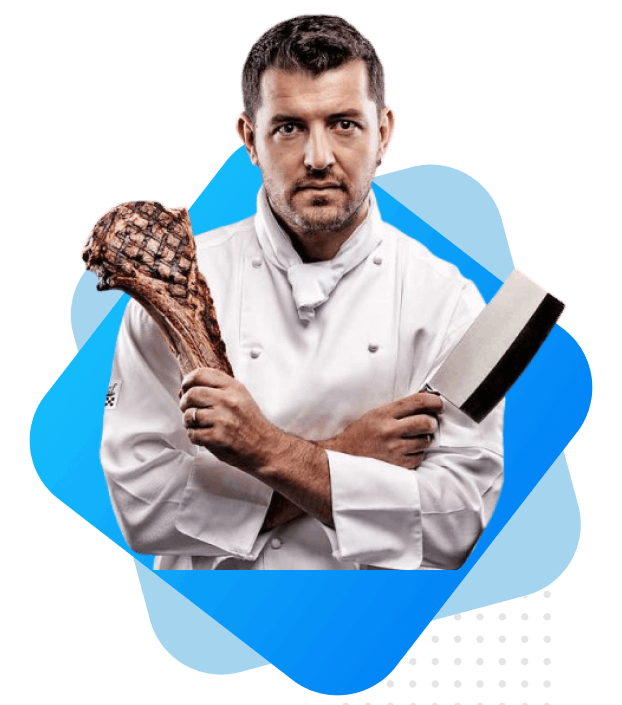
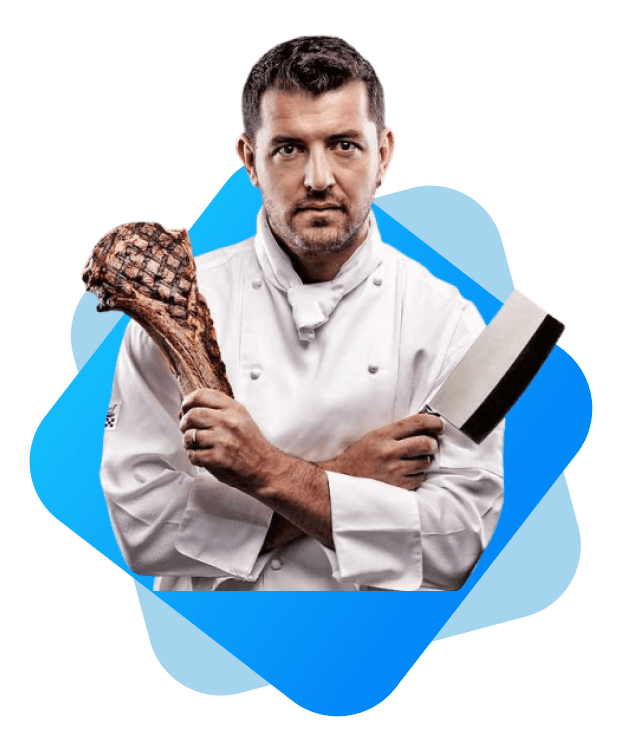
About Section compliete

diff --git a/index.html b/index.html
@@ -15,19 +15,92 @@
 </head>
 
 <body>
+    <!-- Banner Section Start -->
     <section class="banner">
         <div class="wrapper d-flex">
             <div class="banner_content">
                 <h1 class="heading1"> <span class="text-highlight">we belief</span> health food healthy life</h1>
-                <p class="my-10">Imagine you don't need a diet because we provide healthy and delicious food for you!
+                <p class="my-20">Imagine you don't need a diet because we provide healthy and delicious food for you!
                 </p>
                 <a href="https://www.linkedin.com/in/engrasel/" target="_blank" class="d-btn">order food</a>
             </div>
             <div class="banner_image">
-                <img src="images/banner-img.png" alt="">
+                <img src="images/banner-img.png" alt="banner image">
             </div>
         </div>
     </section>
+    <!-- Banner Section End /-->
+
+    <!-- About Section Start -->
+    <section class="about">
+        <div class="wrapper d-flex">
+            <div class="about_image">
+                <img src="images/about-img.png" alt="about image">
+            </div>
+            <div class="about_content">
+                <h2 class="heading2">about us</h2>
+                <p class="my-30">We Believe in Quality. All around. Quality food can’t be made without quality
+                    initiative. Find out
+                    about the general population driving The ‘Organization Name’.</p>
+                <a href="https://www.linkedin.com/in/engrasel/" target="_blank" class="d-btn">contact us</a>
+            </div>
+        </div>
+    </section>
+    <!-- About Section End /-->
+
+    <!-- Recipies Section Start -->
+    <section class="recipies">
+        <div class="wrapper">
+            <div class="recipies_bio">
+                <h2 class="heading2">our recipies</h2>
+                <p>Lorem Ipsum is simply dummy text of the printing and typesetting industry. Lorem Ipsum has a the
+                    industry's standard dummy text ever since the 1500s.</p>
+            </div>
+            <div class="recipies_list d-flex">
+                <div class="recipies_item">
+                    <img src="images/food1.jpg" alt="food1">
+                    <h3 class="heading3">Recipie Title</h3>
+                    <p>Lorem ipsum dolor sit amet, consectetur adipiscing elit. Lacus, fermentum amet faucibus sed id
+                        nisi lectus at.</p>
+                </div>
+                <div class="recipies_item">
+                    <img src="images/food2.jpg" alt="food1">
+                    <h3 class="heading3">Recipie Title</h3>
+                    <p>Lorem ipsum dolor sit amet, consectetur adipiscing elit. Lacus, fermentum amet faucibus sed id
+                        nisi lectus at.</p>
+                </div>
+                <div class="recipies_item">
+                    <img src="images/food3.jpg" alt="food1">
+                    <h3 class="heading3">Recipie Title</h3>
+                    <p>Lorem ipsum dolor sit amet, consectetur adipiscing elit. Lacus, fermentum amet faucibus sed id
+                        nisi lectus at.</p>
+                </div>
+            </div>
+        </div>
+    </section>
+    <!-- Recipies Section End /-->
+
+    <!-- Success_Counter Section Start -->
+    <section class="success_counter">
+        <div class="wrapper">
+            <div class="social_list d-flex">
+                <div class="youtube_subscribers">
+                    <h1 class="heading">700k</h1>
+                    <p>youtube subscribers</p>
+                </div>
+                <div class="instagram_followers">
+                    <h1 class="heading">2.4m</h1>
+                    <p>Instagram Followers</p>
+                </div>
+                <div class="dribbble_likes">
+                    <h1 class="heading">100k</h1>
+                    <p>Dribbble Shot Likes</p>
+                </div>
+            </div>
+        </div>
+    </section>
+    <!-- Success_Counter Section End /-->
+
 
 </body>
 

diff --git a/style.css b/style.css
@@ -1,8 +1,11 @@
+/*------------------ Default Style ------------------ */
 *{
     margin: 0;
     padding: 0;
 }
-a{text-decoration: none;}
+a{
+    text-decoration: none;
+}
 span.text-highlight{
     color: #FBA24F;
 }
@@ -20,6 +23,7 @@ span.text-highlight{
     font-size: 40px;
     line-height: 54px;
     color:#707070;
+    text-transform: capitalize;
 }
 .heading3{
     font-family: Montserrat;
@@ -27,8 +31,8 @@ span.text-highlight{
     font-size: 28px;
     line-height: 40px;
     color:#18191F;
+    text-transform: capitalize;
 }
-
 .d-btn {
 	font-family: Montserrat;
 	font-weight: 600;
@@ -43,7 +47,7 @@ span.text-highlight{
 body{
     font-family: 'Montserrat', sans-serif;
     font-weight: 500;
-    font-size: 18px;
+    font-size: 16px;
     line-height: 32px;
     color: #18191F;
 
@@ -53,23 +57,68 @@ body{
     justify-content: center;
     align-items: center;
 }
+section{
+    padding: 50px 0;
+}
 .wrapper{
     width: 90%;
     margin: auto;
 }
-.my-5{margin: 5px 0;}
-.my-10{margin: 10px 0;}
-.py-5{padding: 5px 0;}
-.py-10{padding: 10px 0;}
+.my-20{margin: 20px 0;}
+.my-30{margin: 30px 0;}
 
-/* banner */
-.banner_content{
+/*------------------ banner section start ------------------ */
+
+.banner_content, .about_content{
     width: 50%;
 }
-.banner_image{
-    width: 50%;
+.banner_image, .about_image {
+	width: 50%;
+	text-align: center;
 }
-.banner_image img {
-	max-width: 100%;
-	height: auto;
+.banner_image img, .about_image img {
+	max-width: 80%;
 }
+/*------------------ banner section end ------------------ **/
+
+/*------------------ About section start ------------------*/
+.about{
+    background-image: url("../images/frame4.jpg");
+    background-color: #cccccc;
+    background-repeat: no-repeat;
+    background-size: 100%;
+    background-position: center center;
+}
+/*------------------ About section end ------------------**/
+
+/*------------------ Recipies section end ------------------*/
+.recipies_bio{
+    text-align: center;
+}
+.recipies_bio p{
+    width: 60%;
+    margin: 20px auto;
+}
+.recipies_item{
+    width: 33%;
+    margin: 0 10px;
+    padding: 20px;
+    box-shadow: 0px 0px 6px #ccc;
+    border-radius: 5px;
+}
+.recipies_item img{
+    max-width: 100%;
+    border-radius: 10px;
+}
+/*------------------ Recipies section end ------------------**/
+
+/*------------------ success_counter section end ------------------*/
+.success_counter .social_list{
+    box-shadow: 0px 0px 6px #ccc;
+    padding: 50px 100px;
+}
+.youtube_subscribers, .instagram_followers, .dribbble_likes{
+    width: 33%;
+    margin: 0 10px;
+}
+/*------------------ success_counter section end ------------------**/
